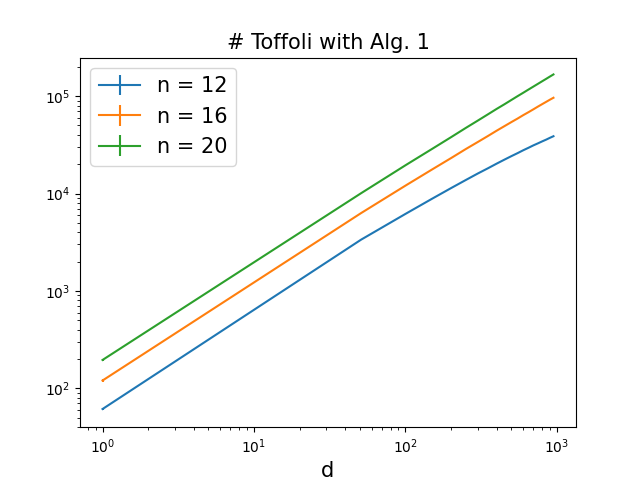
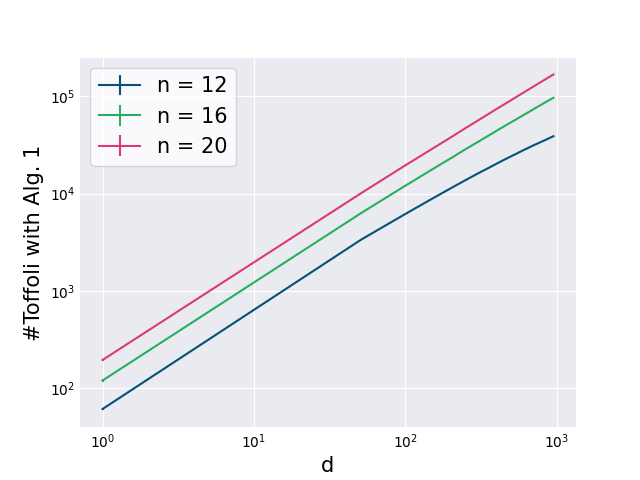
better plots

diff --git a/Algorithm/Grudolph_plot_2.py b/Algorithm/Grudolph_plot_2.py
@@ -1,6 +1,7 @@
 from pathlib import Path
 import pandas as pd
 import matplotlib.pyplot as plt
+import matplotlib as mpl
 import numpy as np
 
 data_folder = Path(__file__).parent.parent / "data"  # ../data
@@ -17,12 +18,16 @@ def make_plot(
     *,
     title: str = "",
     x_axis: str = "",
+    y_axis: str = "",
     ratio_plot: bool = False,
     log_x_axis: bool = False,
     log_y_axis: bool = False,
     font_size: int = 15,
 ):
-    for z in z_values:
+    # Define custom colors for the lines
+    line_colors = ["#045275", "#27AE60", "#DC3977"]  # Replace with your desired colors
+
+    for i, z in enumerate(z_values):
         fulldata = pd.read_csv(
             data_folder / f"Count_{z_label}_{z}.csv", index_col=False
         )
@@ -34,8 +39,9 @@ def make_plot(
         errors = data.sem(numeric_only=True)  # type: ignore
 
         x_label = x_axis
+        y_label = y_axis
 
-        # When plotting ration plot as a function of d/N
+        # When plotting ratio plot as a function of d/N
         x = means.index
         y = means["Toffoli"]
         yerr = errors["Toffoli"]
@@ -54,7 +60,7 @@ def make_plot(
             else:
                 x = z / 2**x
 
-        plt.errorbar(x, y, yerr=yerr, label=f"{z_label} = {z}")
+        plt.errorbar(x, y, yerr=yerr, label=f"{z_label} = {z}", color=line_colors[i])
 
     if log_y_axis:
         plt.yscale("log")
@@ -68,9 +74,18 @@ def make_plot(
             linestyle="dashed",  # type: ignore
         )
 
+    # mpl.rcParams['font.family'] = 'serif'
+    # mpl.rcParams['font.serif'] = 'CMU Serif'
     plt.xlabel(x_label, fontsize=font_size)
+    plt.ylabel(y_label, fontsize=font_size)
     plt.title(title, fontsize=font_size)
+    plt.tick_params(axis="both", which="both", length=0)
+    plt.gca().set_facecolor("#EAEAF1")
+    plt.grid(True, color="white")
+    for spine in plt.gca().spines.values():
+        spine.set_visible(False)
     plt.legend(fontsize=font_size)
+
     plt.savefig(plot_folder / f"{data_name}_{z_label}.png")
 
 
@@ -79,7 +94,7 @@ def generate_plots_as_a_function_of_d(n_values: list, *, show_plots: bool = True
         "n",
         n_values,
         "perm",
-        title="#Toffoli with Alg. 5",
+        y_axis="#Toffoli with Alg. 5",
         x_axis="d",
         log_x_axis=True,
         log_y_axis=True,
@@ -90,7 +105,7 @@ def generate_plots_as_a_function_of_d(n_values: list, *, show_plots: bool = True
         "n",
         n_values,
         "optcount",
-        title="# Toffoli with Alg. 6",
+        y_axis="#Toffoli with Alg. 6",
         x_axis="d",
         log_x_axis=True,
         log_y_axis=True,
@@ -101,7 +116,7 @@ def generate_plots_as_a_function_of_d(n_values: list, *, show_plots: bool = True
         "n",
         n_values,
         "oldcount",
-        title="# Toffoli with Alg. 1",
+        y_axis="#Toffoli with Alg. 1",
         x_axis="d",
         log_x_axis=True,
         log_y_axis=True,
@@ -112,7 +127,7 @@ def generate_plots_as_a_function_of_d(n_values: list, *, show_plots: bool = True
         "n",
         n_values,
         "opt_old",
-        title="#Toffoli with Alg. 6 / Alg. 1",
+        y_axis="#Toffoli with Alg. 6 / Alg. 1",
         x_axis="d",
         ratio_plot=True,
         log_x_axis=True,
@@ -123,7 +138,7 @@ def generate_plots_as_a_function_of_d(n_values: list, *, show_plots: bool = True
         "n",
         n_values,
         "perm_opt",
-        title="#Toffoli with Alg. 5 / Alg. 6",
+        y_axis="#Toffoli with Alg. 5 / Alg. 6",
         x_axis="d",
         ratio_plot=True,
         log_x_axis=True,
@@ -138,7 +153,7 @@ def generate_plots_as_a_function_of_n(d_values: list, *, show_plots: bool = True
         "d",
         d_values,
         "perm",
-        title="#Toffoli with Alg. 5",
+        y_axis="#Toffoli with Alg. 5",
         x_axis="n",
     )
     plt.figure()
@@ -147,7 +162,7 @@ def generate_plots_as_a_function_of_n(d_values: list, *, show_plots: bool = True
         "d",
         d_values,
         "optcount",
-        title="#Toffoli with Alg. 6",
+        y_axis="#Toffoli with Alg. 6",
         x_axis="n",
     )
     plt.figure()
@@ -156,7 +171,7 @@ def generate_plots_as_a_function_of_n(d_values: list, *, show_plots: bool = True
         "d",
         d_values,
         "oldcount",
-        title="#Toffoli with Alg. 1",
+        y_axis="#Toffoli with Alg. 1",
         x_axis="n",
     )
     plt.figure()
@@ -165,7 +180,7 @@ def generate_plots_as_a_function_of_n(d_values: list, *, show_plots: bool = True
         "d",
         d_values,
         "opt_old",
-        title="#Toffoli with Alg. 6 / Alg. 1",
+        y_axis="#Toffoli with Alg. 6 / Alg. 1",
         x_axis="n",
         ratio_plot=True,
         log_x_axis=True,
@@ -176,7 +191,7 @@ def generate_plots_as_a_function_of_n(d_values: list, *, show_plots: bool = True
         "d",
         d_values,
         "perm_opt",
-        title="#Toffoli with Alg. 5 / Alg. 6",
+        y_axis="#Toffoli with Alg. 5 / Alg. 6",
         x_axis="n",
         ratio_plot=True,
         log_x_axis=True,
